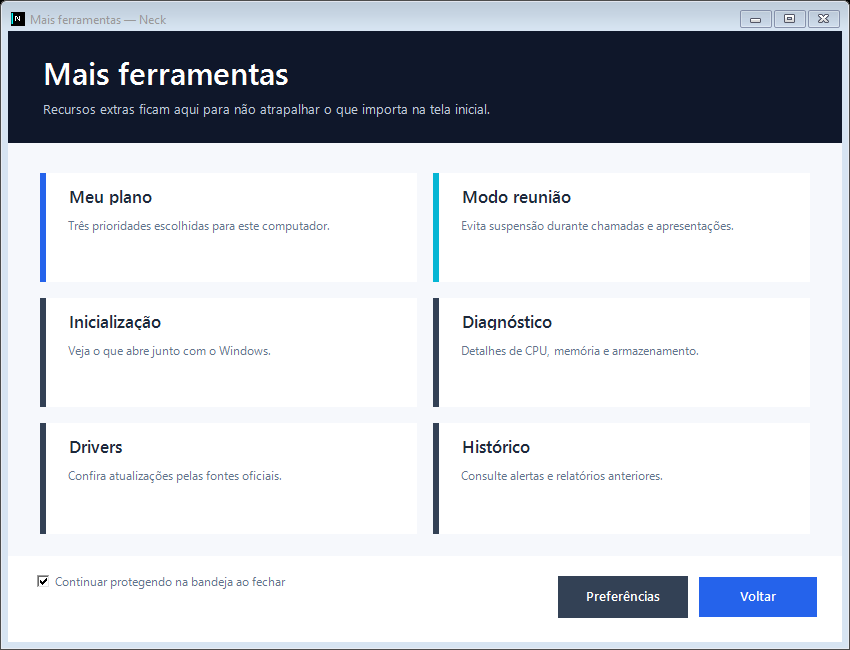
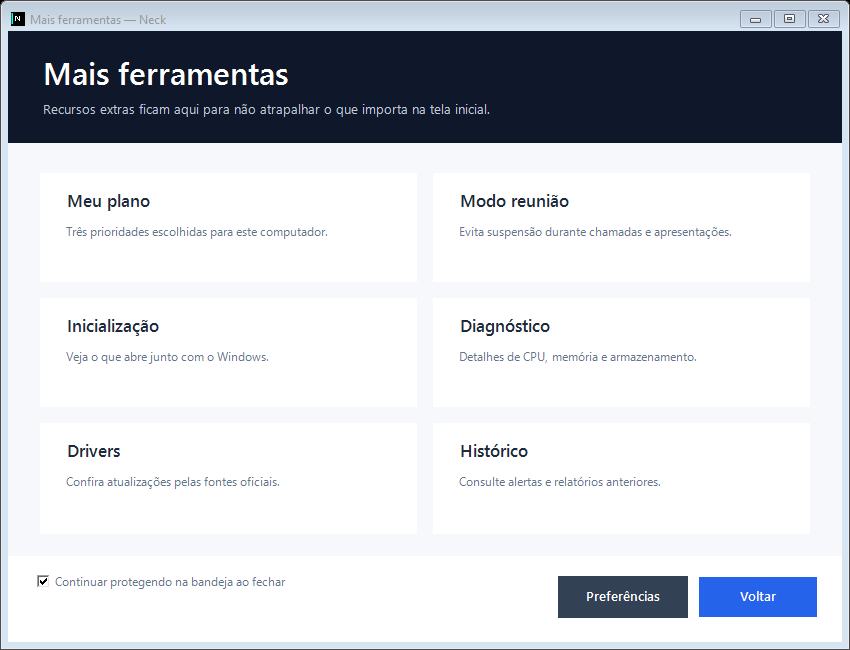
fix: tighten layouts and remove accent rails

diff --git a/Program.cs b/Program.cs
@@ -16,8 +16,8 @@ using System.Windows.Forms;
 [assembly: System.Reflection.AssemblyDescription("Diagnóstico inteligente e manutenção segura para Windows")]
 [assembly: System.Reflection.AssemblyCompany("Neck")]
 [assembly: System.Reflection.AssemblyProduct("Neck")]
-[assembly: System.Reflection.AssemblyVersion("1.7.0.0")]
-[assembly: System.Reflection.AssemblyFileVersion("1.7.0.0")]
+[assembly: System.Reflection.AssemblyVersion("1.7.1.0")]
+[assembly: System.Reflection.AssemblyFileVersion("1.7.1.0")]
 
 namespace Neck
 {
@@ -282,13 +282,11 @@ namespace Neck
     {
         public int CornerRadius { get; set; }
         public Color OutlineColor { get; set; }
-        public Color GradientColor { get; set; }
 
         public RoundedPanel()
         {
             CornerRadius = 18;
             OutlineColor = Theme.Border;
-            GradientColor = Color.Empty;
             DoubleBuffered = true;
             Resize += delegate { UpdateShape(); };
         }
@@ -327,18 +325,6 @@ namespace Neck
             }
         }
 
-        protected override void OnPaintBackground(PaintEventArgs e)
-        {
-            if (GradientColor.IsEmpty)
-            {
-                base.OnPaintBackground(e);
-                return;
-            }
-            e.Graphics.SmoothingMode = SmoothingMode.AntiAlias;
-            using (GraphicsPath path = BuildPath(new Rectangle(0, 0, Math.Max(1, Width - 1), Math.Max(1, Height - 1))))
-            using (LinearGradientBrush brush = new LinearGradientBrush(ClientRectangle, BackColor, GradientColor, LinearGradientMode.Horizontal))
-                e.Graphics.FillPath(brush, path);
-        }
     }
 
     internal sealed class MainForm : Form
@@ -598,9 +584,9 @@ namespace Neck
             };
             Label description = new Label
             {
-                Text = "Remove temporários antigos sem tocar em documentos, senhas ou downloads.",
+                Text = "Remove temporários antigos. Documentos, senhas e downloads ficam intactos.",
                 AutoSize = false,
-                Size = new Size(400, 44),
+                Size = new Size(440, 40),
                 Font = Theme.Body,
                 ForeColor = Theme.Muted,
                 Location = new Point(25, 91)
@@ -661,9 +647,9 @@ namespace Neck
             };
             Label description = new Label
             {
-                Text = "Verifica o Windows e recomenda os cuidados mensais mais importantes.",
+                Text = "Verifica o Windows e recomenda os cuidados mais importantes.",
                 AutoSize = false,
-                Size = new Size(400, 44),
+                Size = new Size(440, 40),
                 Font = Theme.Body,
                 ForeColor = Theme.Muted,
                 Location = new Point(25, 91)
@@ -695,7 +681,6 @@ namespace Neck
         private Control BuildGuardCard()
         {
             RoundedPanel card = MakeCard(new Padding(28));
-            card.GradientColor = Color.FromArgb(247, 250, 255);
             card.Margin = new Padding(0, 0, 0, 0);
             _guardBadge.Text = "ANALISANDO";
             _guardBadge.AutoSize = false;
@@ -785,22 +770,27 @@ namespace Neck
 
         private static Control BuildInlineMetric(string caption, Label value)
         {
-            Panel panel = new Panel { Dock = DockStyle.Fill, BackColor = Theme.Background };
+            Panel panel = new Panel { Dock = DockStyle.Fill, BackColor = Theme.Background, Margin = Padding.Empty };
             Label name = new Label
             {
                 Text = caption,
                 AutoSize = false,
-                Size = new Size(150, 19),
-                Location = new Point(14, 8),
+                Size = new Size(270, 19),
+                Location = new Point(0, 3),
+                Anchor = AnchorStyles.Top | AnchorStyles.Left | AnchorStyles.Right,
                 Font = new Font("Segoe UI Semibold", 8f, FontStyle.Bold),
-                ForeColor = Theme.Muted
+                ForeColor = Theme.Muted,
+                TextAlign = ContentAlignment.MiddleCenter,
+                Margin = Padding.Empty
             };
             value.AutoSize = false;
-            value.Size = new Size(110, 25);
-            value.Location = new Point(165, 22);
-            value.TextAlign = ContentAlignment.MiddleRight;
+            value.Size = new Size(270, 25);
+            value.Location = new Point(0, 23);
+            value.Anchor = AnchorStyles.Top | AnchorStyles.Left | AnchorStyles.Right;
+            value.TextAlign = ContentAlignment.MiddleCenter;
             value.Font = new Font("Segoe UI Semibold", 13f, FontStyle.Bold);
             value.ForeColor = Theme.Text;
+            value.Margin = Padding.Empty;
             panel.Controls.Add(name);
             panel.Controls.Add(value);
             return panel;
@@ -809,7 +799,6 @@ namespace Neck
         private Control BuildToolsStrip()
         {
             RoundedPanel card = MakeCard(new Padding(22));
-            card.GradientColor = Color.FromArgb(249, 251, 255);
             card.Margin = new Padding(0, 0, 0, 0);
             Label title = new Label
             {
@@ -1795,12 +1784,12 @@ namespace Neck
             grid.ColumnStyles.Add(new ColumnStyle(SizeType.Percent, 50));
             grid.ColumnStyles.Add(new ColumnStyle(SizeType.Percent, 50));
             for (int row = 0; row < 3; row++) grid.RowStyles.Add(new RowStyle(SizeType.Percent, 33.333f));
-            grid.Controls.Add(CreateTool("Meu plano", "Três prioridades escolhidas para este computador.", ToolHubChoice.Plan, Theme.Blue), 0, 0);
-            grid.Controls.Add(CreateTool(_meetingActive ? "Encerrar modo reunião" : "Modo reunião", "Evita suspensão durante chamadas e apresentações.", ToolHubChoice.Meeting, Theme.Cyan), 1, 0);
-            grid.Controls.Add(CreateTool("Inicialização", "Veja o que abre junto com o Windows.", ToolHubChoice.Startup, Theme.NavySoft), 0, 1);
-            grid.Controls.Add(CreateTool("Diagnóstico", "Detalhes de CPU, memória e armazenamento.", ToolHubChoice.Diagnostic, Theme.NavySoft), 1, 1);
-            grid.Controls.Add(CreateTool("Drivers", "Confira atualizações pelas fontes oficiais.", ToolHubChoice.Drivers, Theme.NavySoft), 0, 2);
-            grid.Controls.Add(CreateTool("Histórico", "Consulte alertas e relatórios anteriores.", ToolHubChoice.History, Theme.NavySoft), 1, 2);
+            grid.Controls.Add(CreateTool("Meu plano", "Três prioridades escolhidas para este computador.", ToolHubChoice.Plan), 0, 0);
+            grid.Controls.Add(CreateTool(_meetingActive ? "Encerrar modo reunião" : "Modo reunião", "Evita suspensão durante chamadas e apresentações.", ToolHubChoice.Meeting), 1, 0);
+            grid.Controls.Add(CreateTool("Inicialização", "Veja o que abre junto com o Windows.", ToolHubChoice.Startup), 0, 1);
+            grid.Controls.Add(CreateTool("Diagnóstico", "Detalhes de CPU, memória e armazenamento.", ToolHubChoice.Diagnostic), 1, 1);
+            grid.Controls.Add(CreateTool("Drivers", "Confira atualizações pelas fontes oficiais.", ToolHubChoice.Drivers), 0, 2);
+            grid.Controls.Add(CreateTool("Histórico", "Consulte alertas e relatórios anteriores.", ToolHubChoice.History), 1, 2);
 
             Panel footer = new Panel { Dock = DockStyle.Bottom, Height = 86, BackColor = Color.White, Padding = new Padding(28, 14, 28, 14) };
             _continueInTray.Text = "Continuar protegendo na bandeja ao fechar";
@@ -1838,7 +1827,7 @@ namespace Neck
             CancelButton = close;
         }
 
-        private Control CreateTool(string title, string description, ToolHubChoice choice, Color accent)
+        private Control CreateTool(string title, string description, ToolHubChoice choice)
         {
             RoundedPanel card = new RoundedPanel
             {
@@ -1849,14 +1838,13 @@ namespace Neck
                 CornerRadius = 16,
                 Cursor = Cursors.Hand
             };
-            Panel stripe = new Panel { Dock = DockStyle.Left, Width = 6, BackColor = accent, Cursor = Cursors.Hand };
             Label heading = new Label
             {
                 Text = title,
                 AutoSize = false,
-                Height = 32,
+                Height = 42,
                 Dock = DockStyle.Top,
-                Padding = new Padding(20, 11, 10, 0),
+                Padding = new Padding(24, 15, 16, 0),
                 Font = new Font("Segoe UI Semibold", 13f, FontStyle.Bold),
                 ForeColor = Theme.Text,
                 Cursor = Cursors.Hand
@@ -1866,7 +1854,7 @@ namespace Neck
                 Text = description,
                 AutoSize = false,
                 Dock = DockStyle.Fill,
-                Padding = new Padding(20, 12, 18, 8),
+                Padding = new Padding(24, 8, 20, 12),
                 Font = Theme.Small,
                 ForeColor = Theme.Muted,
                 Cursor = Cursors.Hand
@@ -1874,10 +1862,7 @@ namespace Neck
             EventHandler select = delegate { Choose(choice); };
             EventHandler enter = delegate
             {
-                card.BackColor = Color.FromArgb(248, 250, 255);
-                card.OutlineColor = accent;
-                stripe.Width = 9;
-                heading.ForeColor = accent;
+                card.BackColor = Color.FromArgb(248, 250, 252);
                 card.Invalidate();
             };
             EventHandler leave = delegate
@@ -1885,26 +1870,19 @@ namespace Neck
                 Point pointer = card.PointToClient(Cursor.Position);
                 if (card.ClientRectangle.Contains(pointer)) return;
                 card.BackColor = Color.White;
-                card.OutlineColor = Theme.Border;
-                stripe.Width = 6;
-                heading.ForeColor = Theme.Text;
                 card.Invalidate();
             };
             card.Click += select;
-            stripe.Click += select;
             heading.Click += select;
             detail.Click += select;
             card.MouseEnter += enter;
-            stripe.MouseEnter += enter;
             heading.MouseEnter += enter;
             detail.MouseEnter += enter;
             card.MouseLeave += leave;
-            stripe.MouseLeave += leave;
             heading.MouseLeave += leave;
             detail.MouseLeave += leave;
             card.Controls.Add(detail);
             card.Controls.Add(heading);
-            card.Controls.Add(stripe);
             return card;
         }
 

diff --git a/SelfTest.cs b/SelfTest.cs
@@ -49,6 +49,19 @@ namespace Neck
                         preview.Save(previewPath, System.Drawing.Imaging.ImageFormat.Png);
                         Console.WriteLine("UIPreview=" + previewPath);
                     }
+                    form.Size = form.MinimumSize;
+                    for (int i = 0; i < 4; i++)
+                    {
+                        Application.DoEvents();
+                        Thread.Sleep(25);
+                    }
+                    using (System.Drawing.Bitmap preview = new System.Drawing.Bitmap(form.Width, form.Height))
+                    {
+                        form.DrawToBitmap(preview, new System.Drawing.Rectangle(0, 0, form.Width, form.Height));
+                        string previewPath = System.IO.Path.Combine(AppDomain.CurrentDomain.BaseDirectory, "Neck.UI.Minimum.png");
+                        preview.Save(previewPath, System.Drawing.Imaging.ImageFormat.Png);
+                        Console.WriteLine("UIMinimumPreview=" + previewPath);
+                    }
                     form.ForceCloseForTesting();
                 }
                 using (ToolsHubForm tools = new ToolsHubForm(true, false, "Tudo pronto. O Neck está acompanhando o computador."))

diff --git a/README.md b/README.md
@@ -137,11 +137,11 @@ O Neck normalmente é executado como usuário comum. A janela do UAC aparece som
 ### Instalador recomendado
 
 1. Abra a página de [releases](https://github.com/VitorGirardi/neck/releases/latest).
-2. Baixe `Neck-Setup-1.7.0.exe` e o arquivo correspondente `.sha256`.
+2. Baixe `Neck-Setup-1.7.1.exe` e o arquivo correspondente `.sha256`.
 3. Opcionalmente, confira a integridade no PowerShell:
 
 ```powershell
-Get-FileHash .\Neck-Setup-1.7.0.exe -Algorithm SHA256
+Get-FileHash .\Neck-Setup-1.7.1.exe -Algorithm SHA256
 ```
 
 4. Execute o instalador e siga as instruções. O Neck será adicionado ao menu Iniciar e poderá ser removido normalmente pelas configurações de Aplicativos do Windows.
